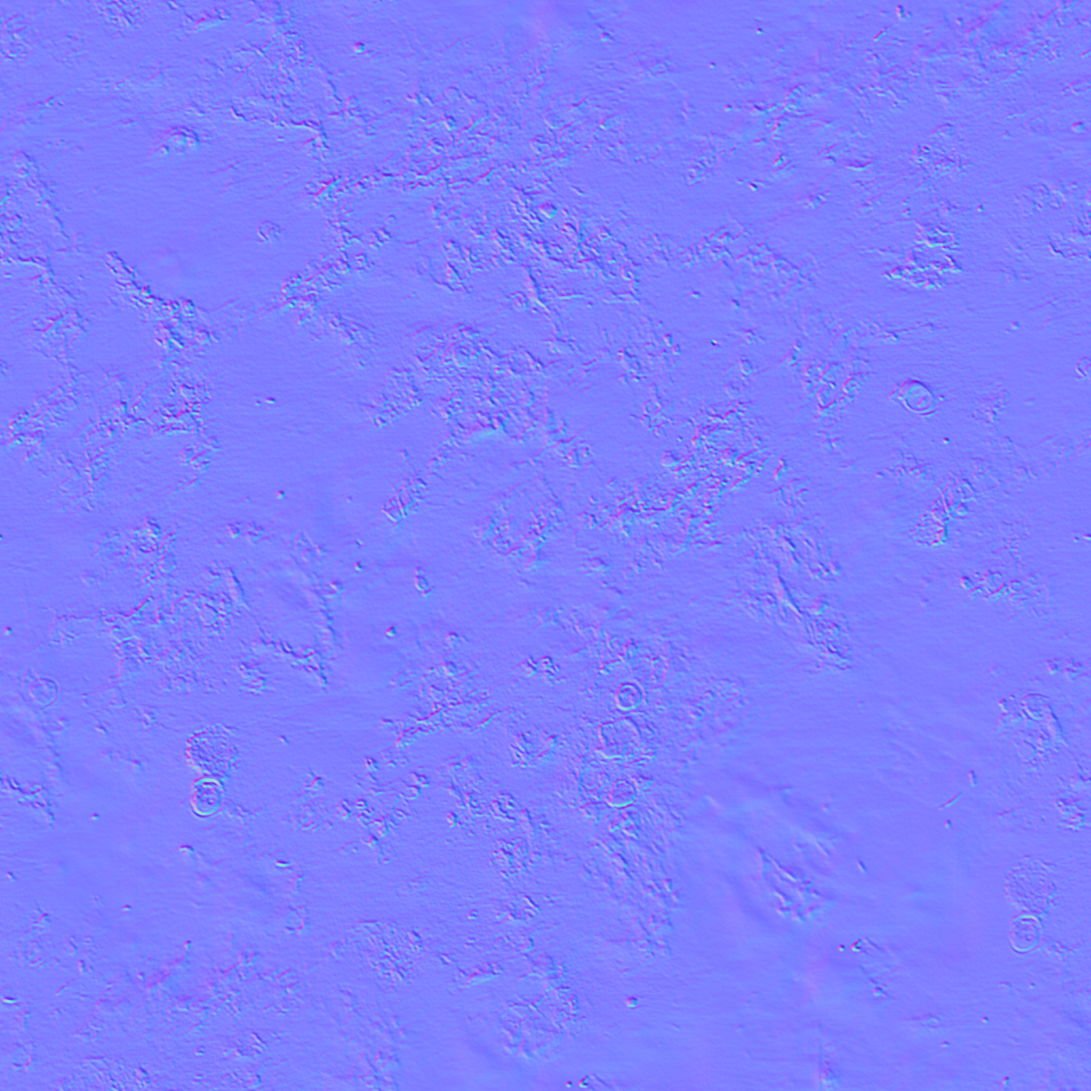
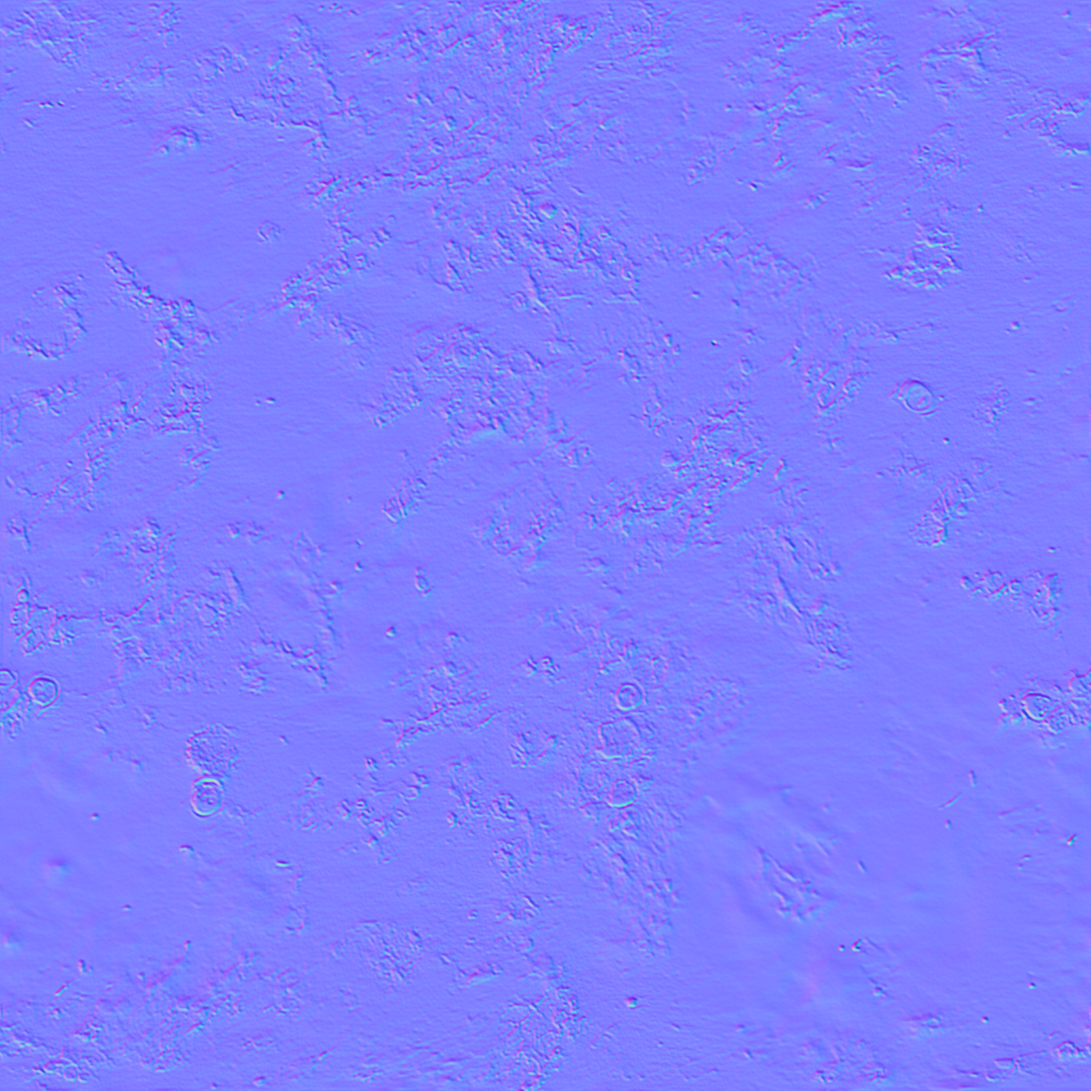
fix: tile the 8x terrain without crossfade creases

diff --git a/tools/upscale8x.py b/tools/upscale8x.py
@@ -4,14 +4,14 @@
 - UI, sprites and the bitmap font: xBR 2x on the 4x pixel art, so the
   result is 8x the original. The font's glyph rectangles are scaled by 8.
 - Terrain and fog: Real-ESRGAN x4plus at its native 4x (2048x2048 from the
-  512x512 originals), made to wrap with tools/upscale4x.py's pipeline (the
-  detail faded into a periodic Lanczos base near the edges, then the
-  adaptive edge crossfade), with its bands scaled to the larger size. At 4K
-  the committed 2x terrain is stretched about 1.9x near the screen's centre
-  and looked soft beside the 8x sprites. The game samples this set's
-  terrain with trilinear mipmaps (`terrain_filter` in main.rs): without them
-  the 2048 textures, minified toward the planet's limb, aliased into
-  vertical bands and slowed the frame.
+  512x512 originals), upscaled with wrapped padding and cropped so they
+  tile without any blending (`upscale_textures`); `close_seam` evens out
+  the step some originals have at their wrap, the fogs use Lanczos, and the
+  planet bases are written opaque. At 4K the 2x terrain is
+  stretched about 1.9x near the screen's centre and looked soft beside the
+  8x sprites. The game samples this set's terrain with trilinear mipmaps
+  (`load_terrain` in main.rs): without them the 2048 textures, minified
+  toward the planet's limb, aliased into vertical bands and slowed the frame.
 - The normal maps are built from this terrain by tools/normalmaps.py's
   `normal_map`, at 2048x2048.
 
@@ -37,9 +37,17 @@ FFMPEG = shutil.which("ffmpeg")
 
 sys.path.insert(0, str(Path(__file__).resolve().parent))
 import normalmaps  # noqa: E402
-from upscale4x import (  # noqa: E402
-    DEFAULT_ESRGAN, blend_seamless, edge_diff, esrgan_upscale, seamless_base, tileable,
-)
+from upscale4x import DEFAULT_ESRGAN, edge_diff, esrgan_upscale, tiled3  # noqa: E402
+
+# Wrapped context around each terrain texture before upscaling, in original
+# pixels; more than Real-ESRGAN's reach, so the cropped centre tiles exactly.
+PAD = 128
+# close_seam: the band the wrap's step is spread over, and the smoothing of
+# the step along the edge, in pixels of the 2048 texture.
+SEAM_BAND = 128
+SEAM_SMOOTH = 32
+# Upscaled with Lanczos, not Real-ESRGAN (see upscale_textures).
+SOFT = {"fogBlackRed", "fogGreen", "fogRed"}
 
 
 def xbr_scale(src: Path, dst: Path) -> None:
@@ -102,20 +110,83 @@ def upscale_font() -> None:
 
 
 def upscale_textures(esrgan: Path) -> None:
-    """4x terrain from the originals, made to wrap."""
+    """4x terrain from the originals that tiles without blending.
+
+    Real-ESRGAN only looks at a pixel's neighbourhood, so upscaling the
+    original wrapped by PAD pixels on every side and cropping the centre
+    gives an output whose edges continue into each other: the wrap is as
+    smooth as any other step, and the detail is the same everywhere. The
+    4x set's crossfade with a rolled copy instead left the outer ~256 pixels
+    (at this size) with 56-70% of the centre's detail, a soft grid at every
+    tile boundary.
+    """
     if not esrgan.exists():
         sys.exit(f"Real-ESRGAN not found at {esrgan} (pass --esrgan)")
     for p in sorted((ROOT / "original" / "textures").glob("*.png")):
         dst = OUT / "textures" / p.name
         dst.parent.mkdir(parents=True, exist_ok=True)
+        im = Image.open(p).convert("RGBA")
+        # The clouds and fogs are decals: their alpha goes through the same
+        # upscale as a grey image.
+        # The fogs are soft overlays with faint brush smears near their
+        # edges, which Real-ESRGAN sharpens into hard streaks; they get a
+        # periodic Lanczos upscale instead.
+        engine = None if p.stem in SOFT else esrgan
+        rgb = periodic_upscale(im.convert("RGB"), engine)
+        if p.stem in normalmaps.BASES:
+            # The planet bases are opaque, but craters (and a few fire pixels)
+            # were exported with alpha down to 216 on their 1-2 px border.
+            # The backdrop multiplies by base alpha, so at 4x that border drew
+            # a dark cross at every wrap; the bases are made fully opaque.
+            alpha = Image.new("L", rgb.size, 255)
+        else:
+            alpha = periodic_upscale(im.getchannel("A").convert("RGB"), engine).convert("L")
+        a = np.dstack([np.asarray(rgb, dtype=np.float64), np.asarray(alpha, dtype=np.float64)])
+        a = close_seam(close_seam(a, 1), 0)
+        Image.fromarray(np.clip(np.round(a), 0, 255).astype(np.uint8), "RGBA").save(dst, optimize=True)
+        print("texture", p.name, im.size, "->", Image.open(dst).size, "edge", round(edge_diff(dst), 2))
+
+
+def close_seam(a: np.ndarray, axis: int) -> np.ndarray:
+    """Remove the step where the texture wraps on one axis.
+
+    Some originals do not tile: the fogs jump by 1.5-1.8 times a typical
+    step at their edges. The jump, smoothed along the edge (SEAM_SMOOTH), is
+    split between the two sides and faded out over SEAM_BAND pixels, so the
+    edges meet without blending in other content or losing detail.
+    """
+    a = np.moveaxis(a, axis, 0).copy()
+    n = a.shape[0]
+    step = a[0] - a[-1]
+    # Smooth along the edge with wrap-around, so only the mismatch moves.
+    k = np.exp(-0.5 * (np.arange(-3 * SEAM_SMOOTH, 3 * SEAM_SMOOTH + 1) / SEAM_SMOOTH) ** 2)
+    k /= k.sum()
+    pad = len(k) // 2
+    wrapped = np.concatenate([step[-pad:], step, step[:pad]], axis=0)
+    step = np.apply_along_axis(lambda v: np.convolve(v, k, mode="valid"), 0, wrapped)
+    t = np.arange(SEAM_BAND) / SEAM_BAND
+    ramp = (0.5 + 0.5 * np.cos(np.pi * t))[:, None, None] * 0.5
+    a[:SEAM_BAND] -= ramp * step
+    a[n - SEAM_BAND:] += ramp[::-1] * step
+    return np.moveaxis(a, 0, axis)
+
+
+def periodic_upscale(im: Image.Image, esrgan: Path | None) -> Image.Image:
+    """4x of a tiling RGB image, upscaled with PAD wrapped pixels around it
+    (Real-ESRGAN, or Lanczos when `esrgan` is None)."""
+    w, h = im.size
+    padded = tiled3(im).crop((w - PAD, h - PAD, 2 * w + PAD, 2 * h + PAD))
+    if esrgan is None:
+        big = padded.resize((padded.width * 4, padded.height * 4), Image.LANCZOS)
+    else:
         with tempfile.TemporaryDirectory() as tmp:
+            src = Path(tmp) / "padded.png"
             detail = Path(tmp) / "detail.png"
-            esrgan_upscale(p, detail, esrgan, 4)
-            out = blend_seamless(Image.open(detail), seamless_base(p, 4), 24 * 2)
-            out = tileable(out, 128 * 2)
-            out.save(dst, optimize=True)
-        print("texture", p.name, Image.open(p).size, "->", Image.open(dst).size,
-              "edge", round(edge_diff(dst), 2))
+            padded.save(src)
+            esrgan_upscale(src, detail, esrgan, 4)
+            big = Image.open(detail).convert("RGB")
+            big.load()
+    return big.crop((PAD * 4, PAD * 4, (PAD + w) * 4, (PAD + h) * 4))
 
 
 def build_normals() -> None:

diff --git a/AGENTS.md b/AGENTS.md
@@ -39,7 +39,7 @@ Done (faithful to the binary unless noted):
 - Performance: the loop is paced at 60 Hz (the original's simulation rate); macOS controller polling no longer posts a LaunchServices KVO notification every frame.
 - Rendering: the offscreen canvas renders at the window's fitted resolution (1:1 blit) instead of upscaling the original 320x480 framebuffer; `MB_RENDER_SCALE` pins it (1 keeps emulator comparisons exact). The bitmap font uses nearest filtering so glyphs stay crisp above 480x320; `MB_FONT_FILTER=linear` opts out.
 - HD art (desktop): 4x sprites/UI/font atlas and 2x terrain textures from `tools/upscale4x.py`, loaded by default; `MB_HD=0` loads the originals and is what emulator-frame comparisons use. The web build keeps the originals (the 4x set is ~79 MB). Terrain stays at 2x because macroquad builds no mipmaps: sampling 2048x2048 backdrops dropped the frame rate to ~46-57 fps, while 2x holds 60 Hz (draw 0.2 ms). The backdrop shader tiles these textures, so `upscale4x.py` fades the ESRGAN detail into a periodic Lanczos base near the edges and runs the ncnn tool in one tile; raw ESRGAN output does not tile and showed as a checkerboard grid. A final adaptive edge crossfade (`tileable`) makes the texture's own wrap continuous; without it the fog textures still showed a line at the texture edge (fixed 1.0.7). All textures use the 128px band; the fog textures need it to hide their edge seam. The original sprawl city grid read as banding at 4K, so world 4 now uses the crater base instead.
-- Experimental 8x art (2026-11-02): `tools/upscale8x.py` builds `assets/8x`: xBR 2x on the 4x set for sprites/UI/font (8x the original), and 4x terrain (2048x2048, Real-ESRGAN x4plus at its native scale from the 512 originals, made to wrap with `upscale4x.py`'s seamless base and `tileable`, bands doubled) with normal maps built from it. `MB_HD=8` loads it (`asset_scale()` 8). `load_terrain` (main.rs) creates every backdrop texture and normal map through miniquad with repeat wrapping, and for the 8x set with trilinear mipmaps: macroquad allocates no mip levels (generating mips into its textures left the backdrop black), and without mipmaps the 2048 terrain aliased into vertical bands toward the planet's limb and cost frame rate. The backdrop shader therefore samples `uv + scroll` on repeating textures instead of `fract()`, which with mipmaps would draw a seam; the 4x build renders the same as before (game frames within 0.02 mean abs). Verified 2026-11-02 at 3840x2160: fine detail (mean horizontal gradient) up 15-40% per world over the 2x terrain (World 3 1.15 vs 0.81), no seam lines, 60 fps with draw 0.69-0.75 ms (the 4x build 0.90-1.19 ms). `tools/package-macos-8x.sh` builds `dist/Meteor Blitz 8x.app` with `LSEnvironment MB_HD=8` and only the 8x set, plus `dist/MeteorBlitz-<version>-macos-8x.dmg`; the set is ~167 MB. Real-ESRGAN lives at `~/tools/realesrgan/` (the scripts' default). The default stays 4x.
+- Experimental 8x art (2026-11-02): `tools/upscale8x.py` builds `assets/8x`: xBR 2x on the 4x set for sprites/UI/font (8x the original), and 4x terrain (2048x2048, Real-ESRGAN x4plus at its native scale from the 512 originals, upscaled with 128 px of wrapped padding and cropped so the edges continue into each other with full detail; `close_seam` spreads any step the original has at its wrap over a 128 px band; the fogs use a padded Lanczos upscale because Real-ESRGAN sharpened their brush smears into streaks; the planet bases are written fully opaque, since craters' 1-2 px border alpha (down to 216) drew a dark cross at every wrap) with normal maps built from it. The 4x set's crossfade (`tileable`) left the outer ~256 px of each 2048 texture at 56-70% of the centre's detail, a soft grid; the padded upscale replaced it. World 3's dark band is a lake in the original `green` art that crosses its wrap, not a seam. `MB_HD=8` loads it (`asset_scale()` 8). `load_terrain` (main.rs) creates every backdrop texture and normal map through miniquad with repeat wrapping, and for the 8x set with trilinear mipmaps: macroquad allocates no mip levels (generating mips into its textures left the backdrop black), and without mipmaps the 2048 terrain aliased into vertical bands toward the planet's limb and cost frame rate. The backdrop shader therefore samples `uv + scroll` on repeating textures instead of `fract()`, which with mipmaps would draw a seam; the 4x build renders the same as before (game frames within 0.02 mean abs). Verified 2026-11-02 at 3840x2160: fine detail (mean horizontal gradient) up 15-40% per world over the 2x terrain (World 3 1.15 vs 0.81), no seam lines, 60 fps with draw 0.69-0.75 ms (the 4x build 0.90-1.19 ms); after the seam rework, World 4 at 4K 60 fps, draw 1.04 ms. `tools/package-macos-8x.sh` builds `dist/Meteor Blitz 8x.app` with `LSEnvironment MB_HD=8` and only the 8x set, plus `dist/MeteorBlitz-<version>-macos-8x.dmg`; the set is ~162 MB. Real-ESRGAN lives at `~/tools/realesrgan/` (the scripts' default). The default stays 4x.
 - World 4 backdrop (deliberate change, 2026-11-02): uses the `craters` base with `fogBlackRed` instead of the original `sprawl` city grid. At 4K the sprawl texture's roads at the tile edges read as a bright grey cross/grid (banding); the crater base has no grid and wraps cleanly. The `sprawl` asset remains for reference but is unused.
 - Web build: published with GitHub Pages from `main` at the repo root (https://bobclawblaw.github.io/meteor-blitz/); `index.html` is the game page (`web.html` redirects to it), `.nojekyll` skips Jekyll. The game's data loads as one pack: `tools/web_pack.py` (run by `tools/build-web.sh`) writes `web/data.pack.gz` (571 files, 13.6 MB, deterministic; was 24.1 MB before the audio and PNG work), the page downloads it with a progress bar and a plugin answers miniquad's `fs_load_file` from it (fallback: a normal request). Loading the files one by one took minutes on Pages (hundreds of sequential round trips, black screen); with the pack a load is 4 requests. Controllers work in the browser: `index.html` registers a miniquad plugin whose `mb_gamepad_read` writes the first connected pad's 4 axes and 17 standard-layout button values into wasm memory, and `pad.rs`'s web `raw` module feeds the shared backend (presses, stick menu navigation, bindings). `MOCK_PAD=1 node tools/web_screenshot.mjs ...` fakes a pad: verified 2026-10-29 that its A presses walk the menus into stage 1.1 and its stick moves the ship. Rebuild the bundle (`tools/build-web.sh`) and commit `web/meteor-blitz.wasm` with any change the web should get.
 - Web build verified 2026-10-29 with `tools/web_screenshot.mjs` (headless Chrome over CDP): at 480x320 the menu buttons differ from the native `MB_HD=0` build by 0.14-0.35 mean abs (the backdrop differs only in scroll phase), and clicking through Play > Arcade > World 1 > Stage 1 renders gameplay with the sprite/terrain assets loaded. Use real time, not `--virtual-time-budget`: virtual time leaves the first frames black.

diff --git a/worklog/2026-11-02.md b/worklog/2026-11-02.md
@@ -14,3 +14,17 @@
   - The new PNGs were recompressed with oxipng, pixel-identical as RGBA.
 - Mid-session the Mac briefly had no display, and 4K captures came out 3840x1018. Those runs were redone once the display was back.
 - Not pushed.
+
+## 8x background creases
+
+- The user still saw tiling creases in the 8x build. Measuring the textures directly (the earlier screen-row scan cannot see seams on the curved mesh) showed the crossfade left the outer ~256 px of each 2048 texture at 56-70% of the centre's detail, a soft grid at every wrap.
+- `tools/upscale8x.py` now upscales each original with 128 px of wrapped padding and crops the centre, so the edges continue into each other at full detail. `close_seam` spreads the original's own wrap step (fogs 1.5-1.8x a typical step) over a 128 px band. Alpha is upscaled as a separate grey image. The fogs use a padded Lanczos upscale, because Real-ESRGAN sharpened their brush smears into horizontal streaks.
+- Worlds 4/5 still showed a thin cross. The original `craters.png` has alpha down to 216 on its 1-2 px border, and the backdrop multiplies by base alpha. The planet bases (`normalmaps.BASES`) are now written fully opaque.
+- World 3's dark band is a dark lake in the original `green.png` that crosses its top/bottom wrap. It is content, continuous across the seam; the old 4x crossfade had blurred it away.
+- Verified at 3840x2160 with `MB_HD=8`:
+  - Worlds 1-6 recaptured with no straight seam lines.
+  - Wrap step / typical step: 0.88-1.13 for the bases, 1.28-1.39 for the fogs (about one level).
+  - World 4: 60 fps, draw 1.04 ms.
+  - oxipng output is pixel-identical as RGBA.
+  - `assets/8x` is 162 MB.
+- Next: the 4x set has the same crossfade soft band and could get the same pipeline. Not pushed.
